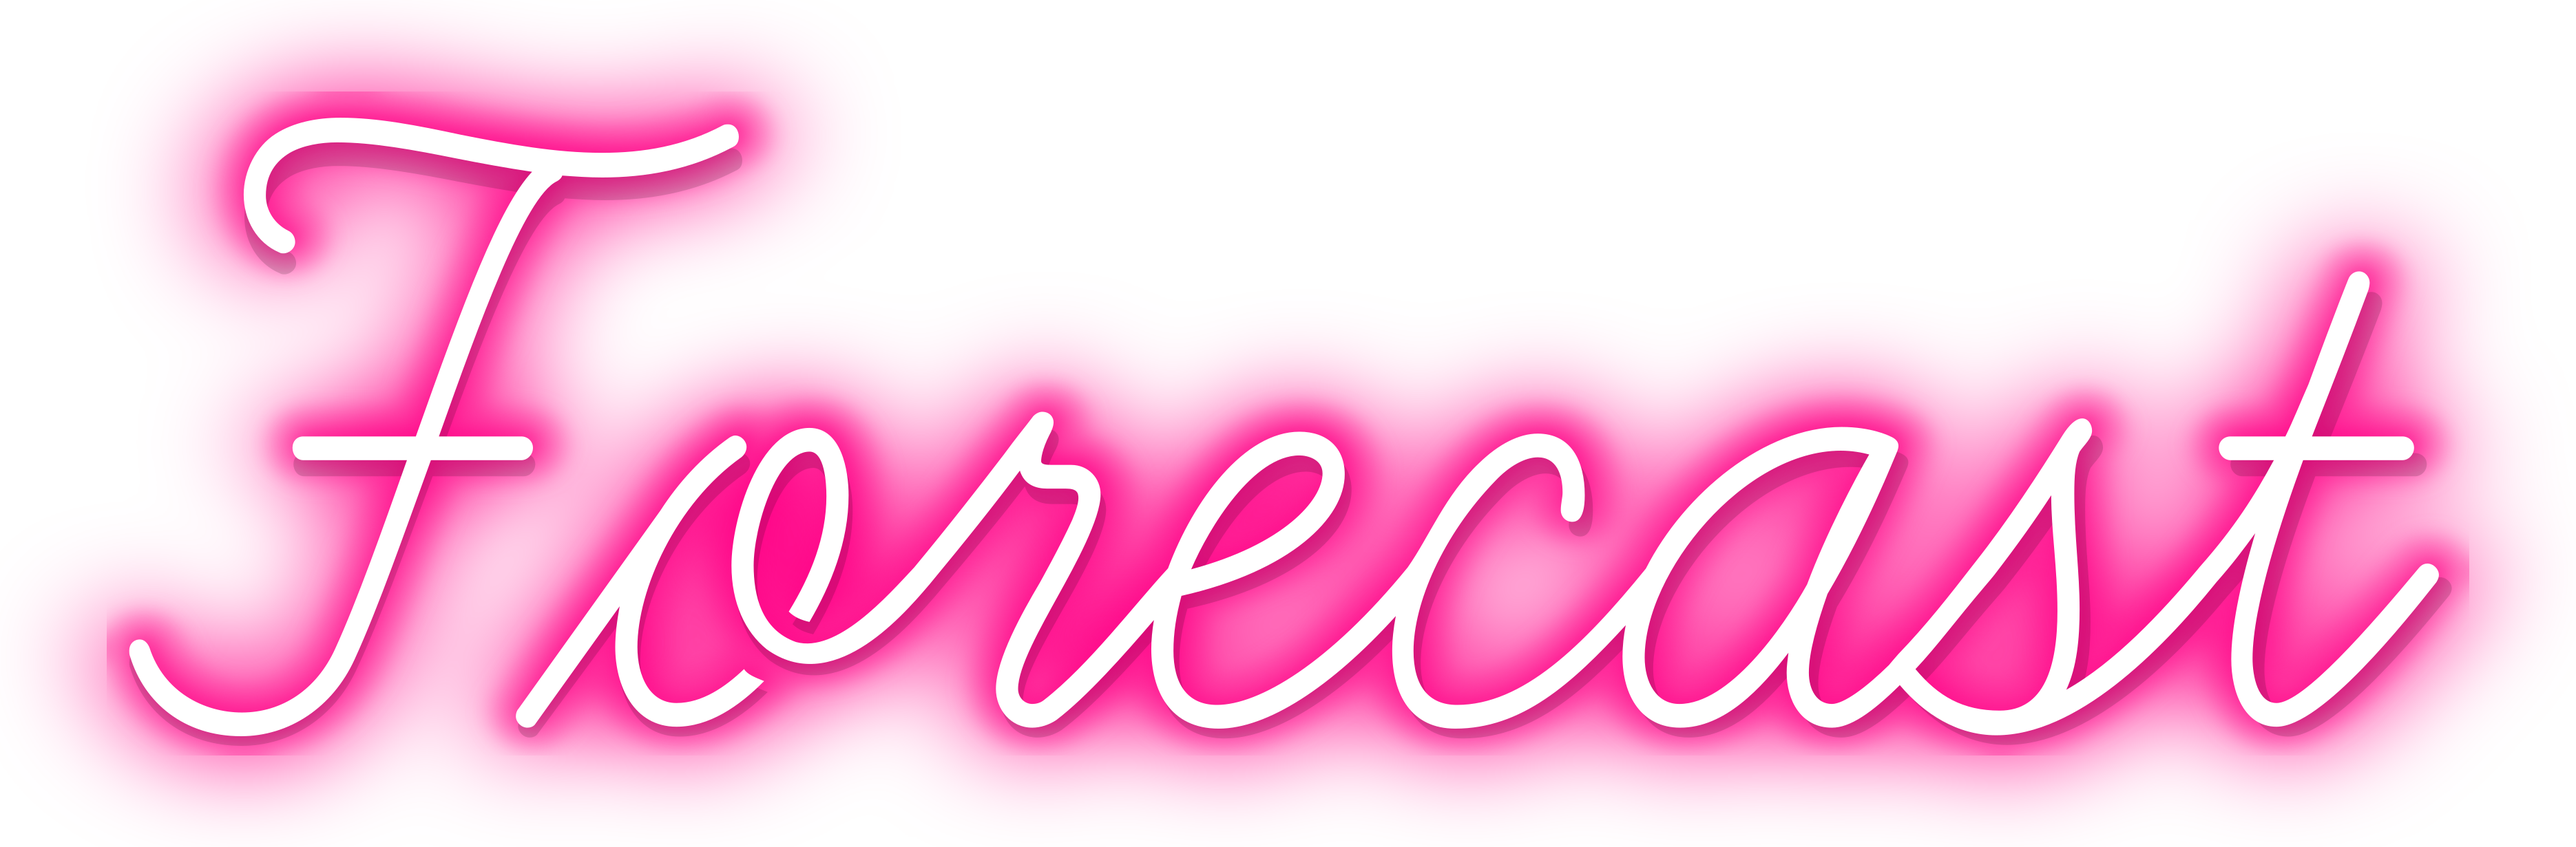
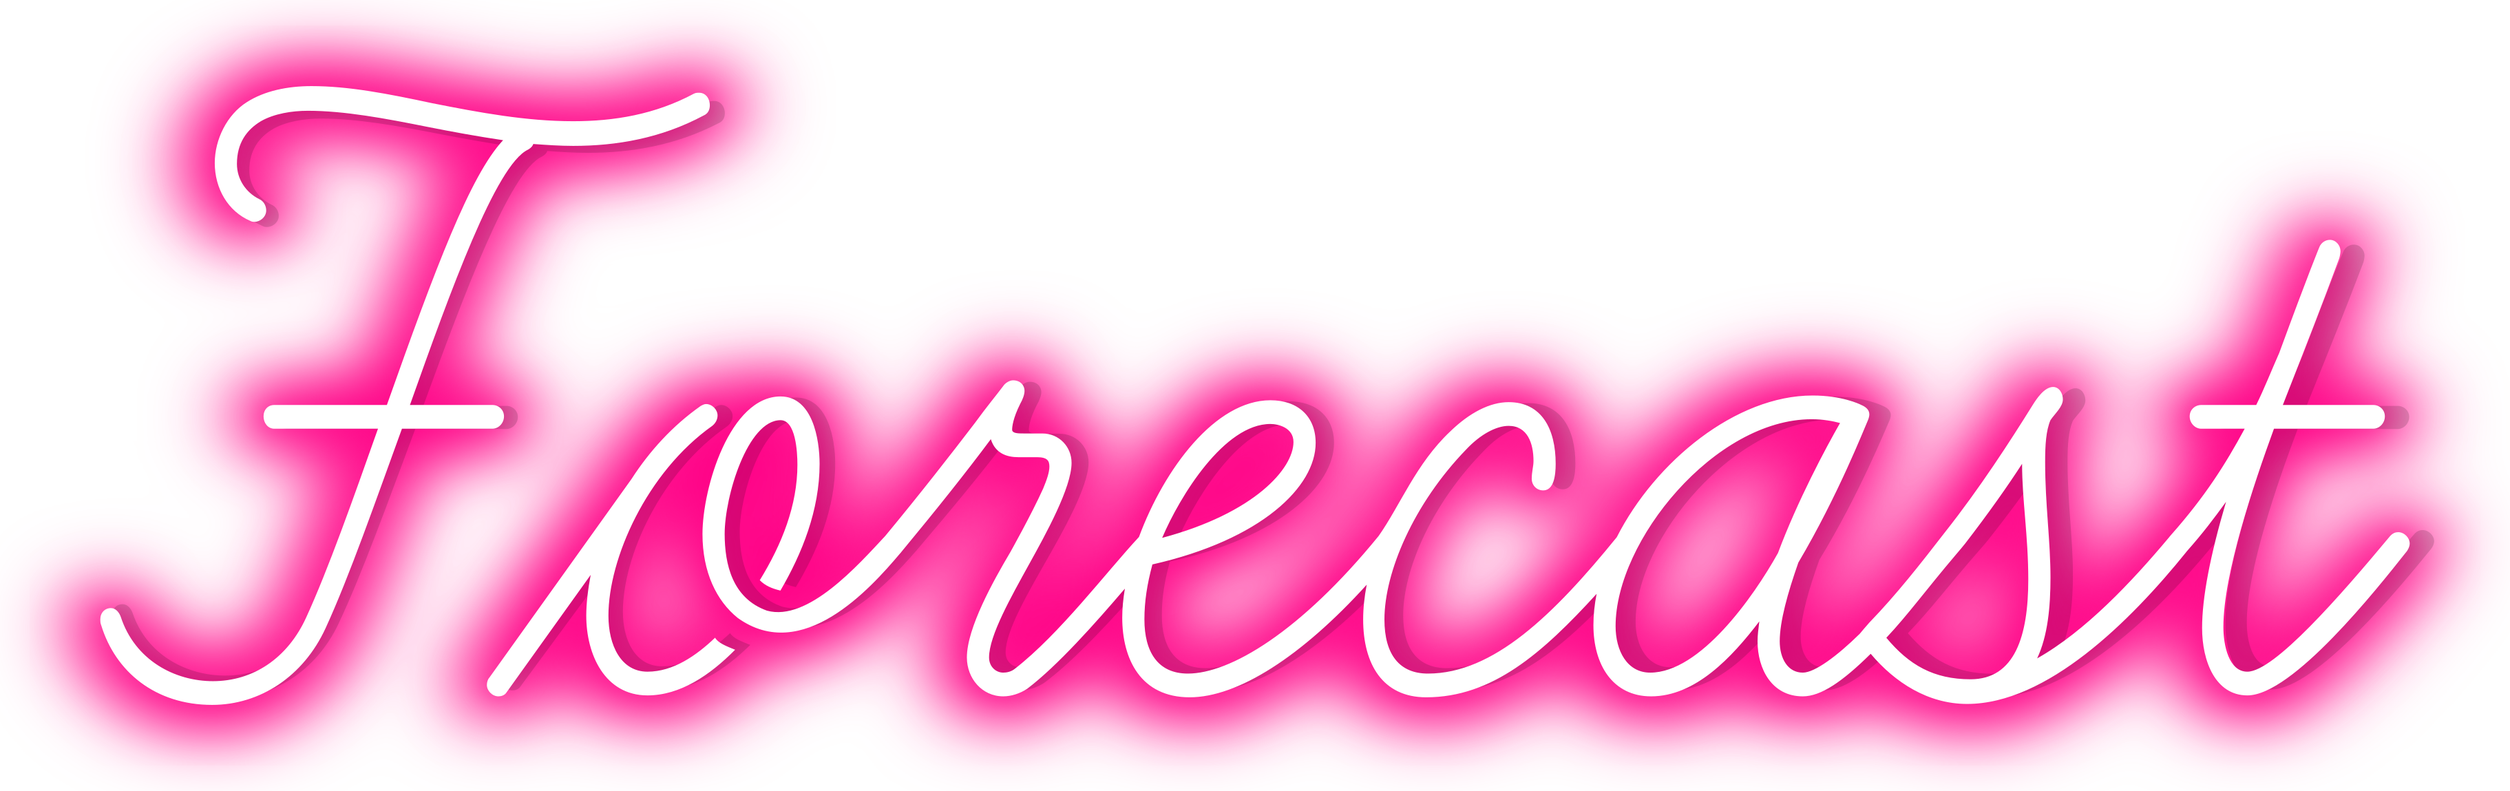
Changes to CSS
Rotated and moved the "Weather Forecast" neon signs to the left, and adjusted the "Forecast" neon sign on Inkscape to give it more glow

diff --git a/src/styles.css b/src/styles.css
@@ -18,27 +18,31 @@ html {
 
 .weather-neon {
   height: auto;
-  width: 400px;
+  width: 500px;
   margin: auto;
   display: block;
   position: relative;
   top: 60px;
-
+  left:-450px;
+  transform: rotate(-20deg);
+/* create by Andrea Dubuc of Inkscape*/
 }
 
 
 .forecast-neon {
   height: auto;
-  width: 450px;
+  width: 460px;
   margin: auto;
   display: block;
   position: relative;
-  top: 65px;
-
+  top: 60px;
+  left:-410px;
+  transform: rotate(-20deg);
+/* create by Andrea Dubuc of Inkscape*/
 }
 
 .container {
-  margin-top: 150px;
+  margin-top: 90px;
   box-shadow: 0 0 0.1vw 0.4vw #fafaf8fd, 0 0 0.4vw 0.6vw #faed27,
     0 0 4vw 0.4vw #faed27, inset 0 0 1.5vw 0.4vw #faed27,
     inset 0 0 0.4vw 0.2vw #faed27, inset 0 0 0.5vw 0.2vw #fff7f7;

diff --git a/src/index.js b/src/index.js
@@ -21,7 +21,7 @@ let day = days[now.getDay()];
 let h2 = document.querySelector("h2");
 h2.innerHTML = `${day} <br/> ${hours}:${minutes}`;
 
-// API
+
 function showPosition(position) {
   let latitude = position.coords.latitude;
   let longitude = position.coords.longitude;
